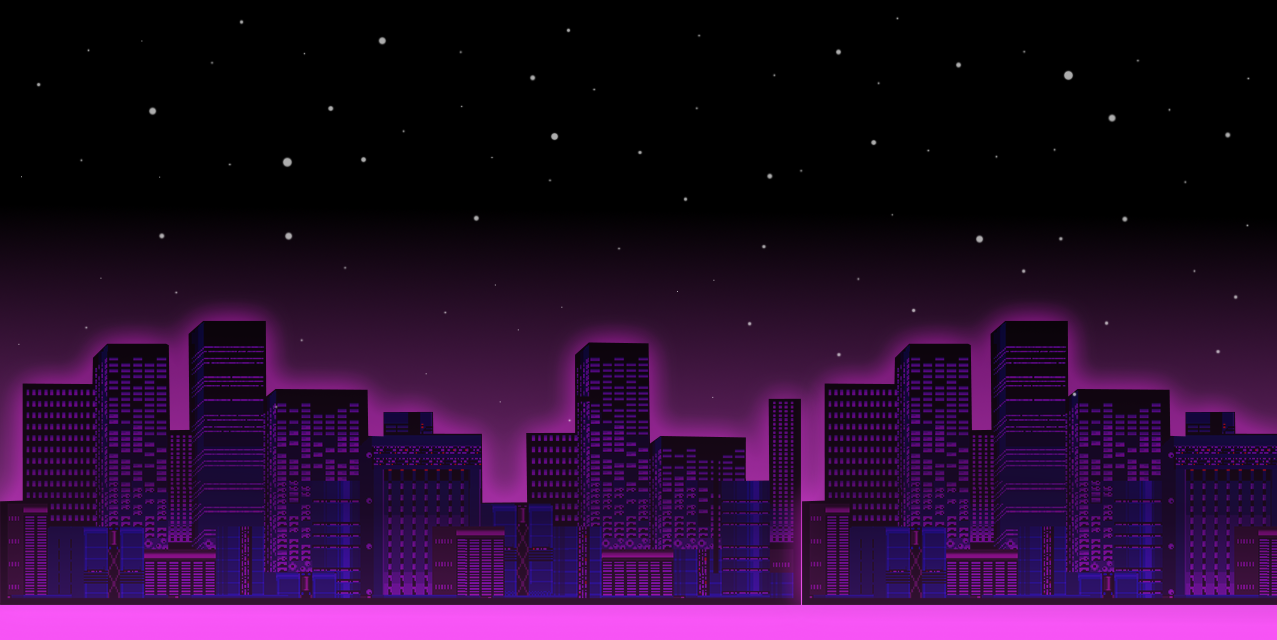
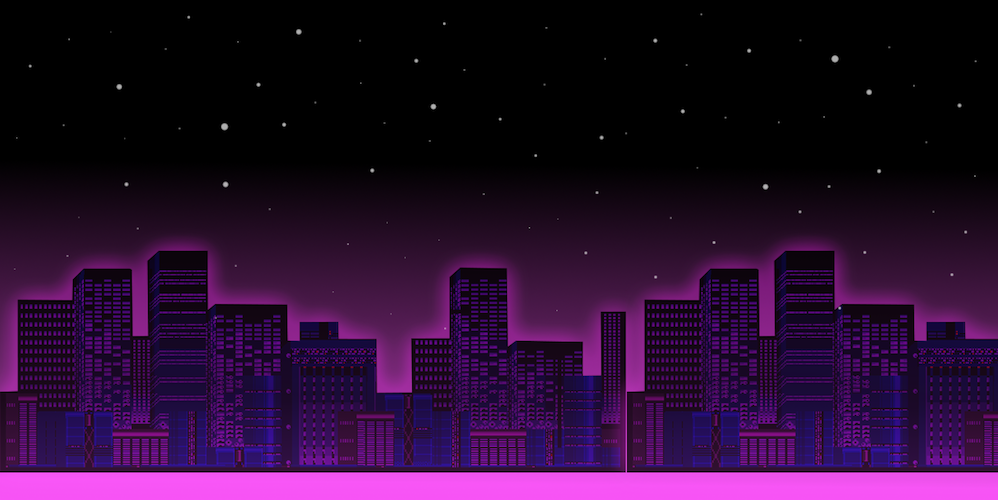
missing animations...and many other things

Changed region(s): [[0.0, 0.93, 1.0, 0.96], [0.8076, 0.66, 0.8387, 0.69], [0.0932, 0.6, 0.1242, 0.63]]

diff --git a/js/app.js b/js/app.js
@@ -1,11 +1,14 @@
 var game = new Phaser.Game(GAME_WIDTH, GAME_HEIGHT, Phaser.AUTO, "game",
     { init: init, preload: preload, create: create, update: update, render: render });
 
+var winMessage;
+var gameTile = 'Space Noodle Challenge';
+
 function init() {
     game.world.resize(WORLD_WIDTH, WORLD_HEIGHT);
 
     game.physics.startSystem(Phaser.Physics.ARCADE);
-    game.physics.arcade.gravity.y = 500;
+    game.physics.arcade.gravity.y = 1000;
     game.physics.arcade.skipQuadTree = false;
 }
 
@@ -13,21 +16,22 @@ function preload() {
     //Load background
     game.load.image('background', '../img/background.png');
 
+    // Load Flag
+    game.load.spritesheet('finishLine', '../img/castle.png', 311, 494)
+
     //Load platforms/scenery
-    game.load.spritesheet('tiles', '../img/tilesheet.png', 16, 16);
+    game.load.image('tiles', '../img/tilesheet.png');
 
     //Load characters
-    game.load.spritesheet('spaceNoodle', '../img/character1sheet.png', 46, 63);
+    game.load.spritesheet('spaceNoodle', '../img/characters.gif', 16, 32);
 
     // Load Floating Tiles
     game.load.spritesheet('floatingTile', '../img/tilesheet.png');
 }
 
 function create() {
-    background = game.add.sprite(0, 0, 'background');
+    background = game.add.tileSprite(0, 0, WORLD_WIDTH, WORLD_HEIGHT, 'background');
     background.fixedToCamera = false;
-    background.width = GAME_WIDTH;
-    background.height = GAME_HEIGHT;
 
 
     platforms = game.add.physicsGroup();
@@ -37,27 +41,30 @@ function create() {
     platforms.setAll('body.allowGravity', false);
     platforms.setAll('body.immovable', true);
 
-    player = game.add.sprite(43, 47, 'spaceNoodle');
-    
+    player = game.add.sprite(12, 47, 'spaceNoodle');
+
     // player.anchor.set(0.5) NOT WORKINg
 
     game.physics.arcade.enable(player);
     // player.gravity.y = true;
     // player.body.setSize(32, 45, 0, 0);
-    player.body.setSize(46, 63);
+    player.body.setSize(16, 32);
     player.scale.setTo(1.5);
     player.facing = 'right';
     player.jumping = false;
 
-    var ledge = platforms.create(200, 200, 'floatingTile')
-    ledge.body.immovable = true;
-    // ledge.setAll('body.allowGravity', false);
     
 
-    // player.animations.add('left', [0, 1, 2, 3], 8, true);
-    // player.animations.add('right', [18, 19, 20], 8, true);
-    // player.animations.add('jumpLeft', [5], 8, true);
-    // player.animations.add('jumpRight', [5], 8, true);
+    // Draw castle 
+    platforms.create(3550, 32, 'finishLine')
+
+    // ledge.setAll('body.allowGravity', false);
+
+
+    player.animations.add('left', [9, 11], 8, true);
+    player.animations.add('right', [16, 18], 8, true);
+    player.animations.add('jumpLeft', [7], 8, true);
+    player.animations.add('jumpRight', [20], 8, true);
 
     game.camera.follow(player);
 
@@ -72,16 +79,17 @@ function update() {
         fellDown();
         return;
     }
-    // stop at right wall
+    // stop at left wall
     else if (player.body.x < 0) {
         player.body.x = 0;
         player.body.velocity.x = 0;
     }
-    // 
+    // Figure out
     else if (player.body.x + player.body.width >= game.world.bounds.right) {
         player.body.x -= 25;
         player.body.velocity.x = 0;
     }
+    // figure out
     else if (player.body.y + (player.body.height * 1.5) < 0) {
         player.body.y += 25;
         player.body.velocity.y = 0;
@@ -142,9 +150,22 @@ function render() {
     game.debug.body(platforms);
 }
 
+function winChecker() {
+    winMessage = game.add.text(player.position.x - 100, game.world.centerY, "You survived ", { font: '30px Arial', fill: 'white' });
+    winMessage += game.add.text(player.position.x - 100, game.world.centerY + 100, gameTile, { font: '30px Arial', fill: 'white' })
+    game.paused = true 
+}
+
 function collidePlatform(player, platform) {
+
+    if (player.position.x >= 2900) {
+        winChecker()
+    }
+
+
     //Cancel jump event only if player is on top of platform
     if (player.body.y + player.body.height <= platform.body.y) {
+        console.log('app.js:153 What do?')
         player.jumping = false;
     }
 }
@@ -152,6 +173,7 @@ function collidePlatform(player, platform) {
 function fellDown() {
     player.kill();
     gameOver = true;
+    winMessage = game.add.text(player.position.x, game.world.centerY, 'YOU LOSE', { font: '30px Arial', fill: 'white' })
     console.log("fell down a hole");
     console.log('TODO: Gameover logic');
 }

diff --git a/js/worldBuilder.js b/js/worldBuilder.js
@@ -2,11 +2,20 @@
 // TODO: Delete and make dynamic
 var level = {
   ground: [
-    { start: 0 * TILE_WIDTH, end: 10 * TILE_WIDTH },
-    { start: 12 * TILE_WIDTH, end: 15 * TILE_WIDTH }
+    { start: 0 * TILE_WIDTH, end: 3 * TILE_WIDTH },
+    { start: 7 * TILE_WIDTH, end: 11 * TILE_WIDTH },
+    { start: 14 * TILE_WIDTH, end: 23 * TILE_WIDTH },
+    { start: 27 * TILE_WIDTH, end: 35 * TILE_WIDTH },
+    { start: 38 * TILE_WIDTH, end: 40 * TILE_WIDTH },
+    { start: 43 * TILE_WIDTH, end: 50 * TILE_WIDTH },
+    { start: 55 * TILE_WIDTH, end: 64 * TILE_WIDTH },
+    { start: 66 * TILE_WIDTH, end: 73 * TILE_WIDTH },
+    { start: 75 * TILE_WIDTH, end: 80 * TILE_WIDTH },
+    { start: 81 * TILE_WIDTH, end: 87 * TILE_WIDTH },
+    { start: 91 * TILE_WIDTH, end: 112 * TILE_WIDTH },
   ],
   bricks: [
-    { start: { x: 10, y: 2 }, end: 5 }
+    // { start: { x: 10 * TILE_WIDTH, y: 12  * TILE_WIDTH }, end: 15 * TILE_WIDTH }
   ]
 };
 
@@ -16,33 +25,50 @@ function createPlatforms(levelText) {
   var y = 0;
 
   level.ground.forEach(function (groundPiece) {
+    while (groundPiece.start > x) {
+      x += TILE_WIDTH;
+    }
 
-    console.log(groundPiece.end);
-    console.log('x', x);
-
+    // console.log(groundPiece.end);
+    // console.log('x', x);
     while (x <= groundPiece.end) {
       let ground = platforms.create(x, GROUND_HEIGHT, 'tiles');
-      ground.frame = 0;
-      ground.scale.setTo(2);
       ground.anchor.setTo(0, 0);
       x += TILE_WIDTH;
     }
 
-    if (groundPiece.start <= x) {
-      x += TILE_WIDTH;
-    }
-    
     // platforms.create(232, 300, 'floatingTile')
     // platforms.create(264, 300, 'floatingTile')
 
   });
-  platforms.create(200, 300, 'floatingTile')
-  platforms.create(232, 300, 'floatingTile')
-  platforms.create(264, 300, 'floatingTile')
-  
-  console.log('Want to turn of collision on bottom of bricks');
+  // platforms.create(200, 400, 'floatingTile')
+  // platforms.create(232, 400, 'floatingTile')
+  // platforms.create(264, 400, 'floatingTile')
+  // platforms.create(200, 400, 'floatingTile')
+  // platforms.create(232, 300, 'floatingTile')
+  // platforms.create(264, 300, 'floatingTile')
+  // platforms.create(296, 300, 'floatingTile')
+  platforms.create(3000, 0, 'finishLine')
+
 }
 
 function placeScenery() {
-  console.log('TODO: Place scenery');
+  
+
+  level.bricks.forEach(tile => {
+    var x = 0 
+    while (tile.start.x > x) {
+      x += TILE_WIDTH;
+    }
+
+    console.log(tile.end);
+    console.log('x', x);
+    while (x <= tile.end) {
+      let ground = platforms.create(x, tile.start.y, 'tiles');
+      ground.anchor.setTo(0, 0);
+      x += TILE_WIDTH;
+    }
+    platforms.create(3550, 32, 'finishLine')
+    // console.log('TODO: Place scenery');
+  })
 }

diff --git a/js/globals.js b/js/globals.js
@@ -2,9 +2,9 @@
 var GAME_HEIGHT = 500;
 var GAME_WIDTH = 700;
 var WORLD_WIDTH = 3500;
-var WORLD_HEIGHT = 560;
+var WORLD_HEIGHT = 500;
 var TILE_WIDTH = 32;
-var GROUND_HEIGHT = 500;
+var GROUND_HEIGHT = WORLD_HEIGHT - TILE_WIDTH;
 
 // Global vars
 var player = null;
